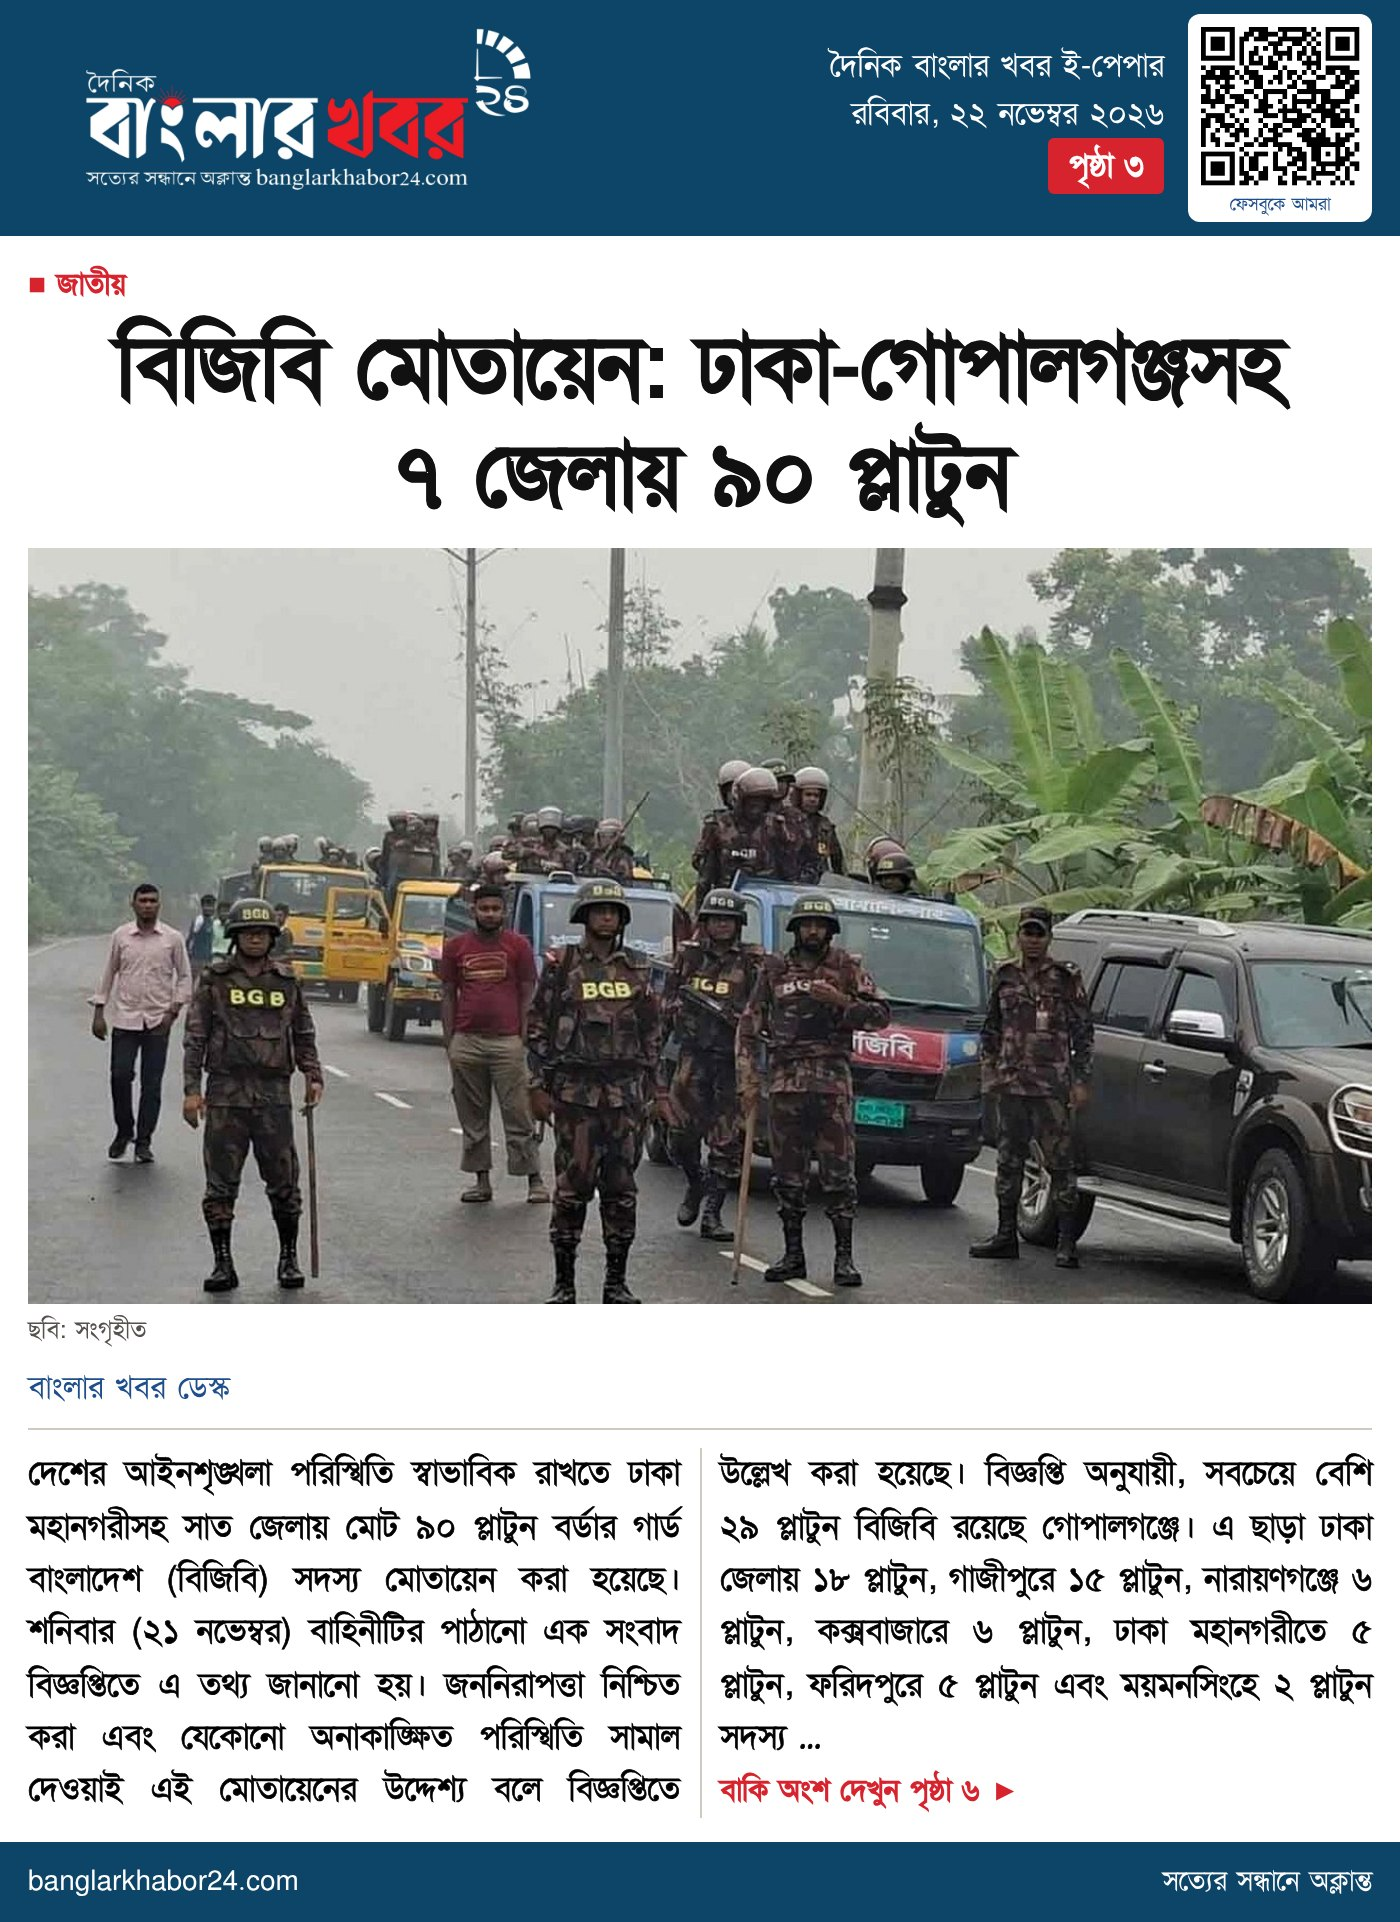
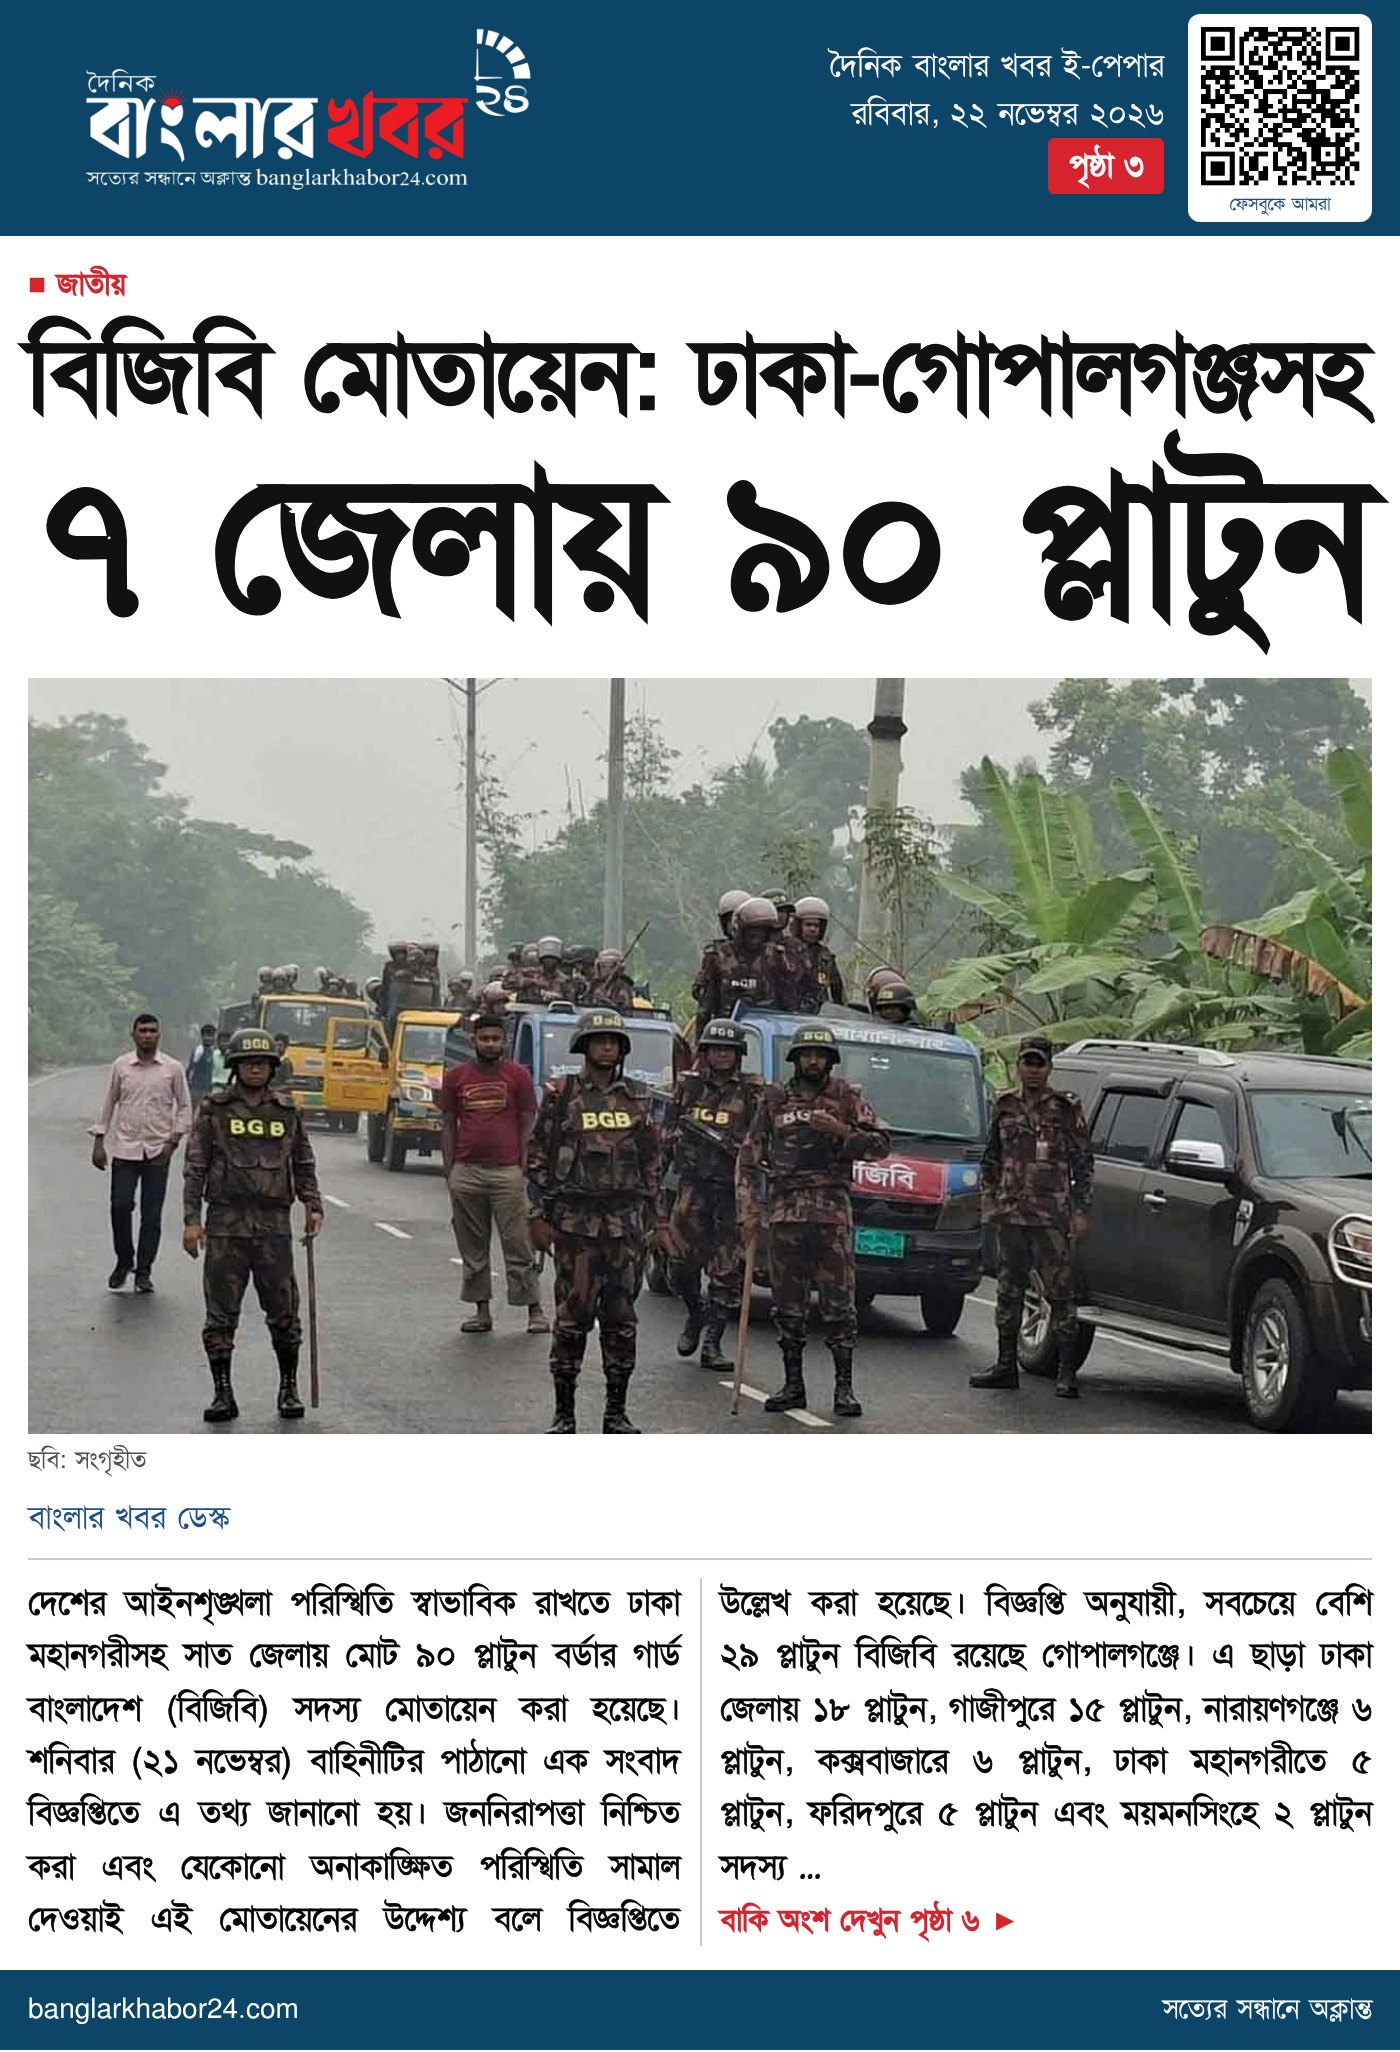
E-paper: story-card headlines fill the full width (one line, or two stretched lines)
Claude-Session: https://claude.ai/code/session_01LCPqBFZ5bY9uVNj6KRS3oq

diff --git a/epaper/build.js b/epaper/build.js
@@ -296,7 +296,19 @@ async function renderCards(pg, n, outDir) {
   for (const d of ds) {
     const sid = d.id.replace(/^c/, ''), name = d.kind === 'f' ? `${TAG}-${sid}.jpg` : `${TAG}-${sid}-${d.kind === 'b' ? 'b' : 'a'}.jpg`;
     fs.writeFileSync(E + '/_c.html', cardHTML(d, n)); await cp.goto('file://' + E + '/_c.html');
-    await cp.evaluate(() => document.fonts.ready); await cp.evaluate(() => window.fitAll()); await cp.waitForTimeout(80);
+    await cp.evaluate(() => document.fonts.ready); await cp.evaluate(() => { // headline edge to edge: short = one full-width line, long = two lines each stretched to full width
+      const h = document.querySelector('#card h2'); if (!h) return;
+      const ws = (h.dataset.t || h.textContent).trim().split(/ +/); h.dataset.t = ws.join(' ');
+      const W = h.clientWidth - 2, m = document.createElement('span');
+      m.style.cssText = 'position:absolute;visibility:hidden;white-space:nowrap;font-family:Lalsalu;font-weight:700;font-size:50px;-webkit-text-stroke:.5px'; document.body.appendChild(m);
+      const wid = t => { m.textContent = t; return m.offsetWidth; };
+      const line = (t, f) => `<span style="display:block;white-space:nowrap;font-size:${f.toFixed(1)}px;line-height:1.18">${t}</span>`;
+      const one = 50 * W / wid(ws.join(' '));
+      if (one >= 46 || ws.length < 2) { h.innerHTML = line(ws.join(' '), Math.min(one, 90)); }
+      else { let b = null; for (let i = 1; i < ws.length; i++) { const a = wid(ws.slice(0, i).join(' ')), c = wid(ws.slice(i).join(' ')), sc = Math.min(a, c) / Math.max(a, c); if (!b || sc > b.sc) b = { i, a, c, sc }; }
+        h.innerHTML = line(ws.slice(0, b.i).join(' '), 50 * W / b.a) + line(ws.slice(b.i).join(' '), 50 * W / b.c); }
+      h.style.textAlign = 'left'; h.style.textAlignLast = 'left';
+      m.remove(); }); await cp.waitForTimeout(80);
     await (await cp.$('#card')).screenshot({ path: `${outDir}/${name}`, type: 'jpeg', quality: 86 });
   }
 }

diff --git a/epaper/daily.py b/epaper/daily.py
@@ -107,7 +107,7 @@ def recards(day):
     auth = {'Authorization': 'Basic ' + base64.b64encode(f'{user}:{pw}'.encode()).decode()}
     src = os.path.join(HERE, 'oneoff', day); new = {}
     for path in sorted(glob.glob(f'{src}/*.jpg')):
-        name = os.path.basename(path); nn = name[:-4] + '-v2.jpg'
+        name = os.path.basename(path); nn = name[:-4] + '-' + os.environ.get('CARD_VER', 'v2') + '.jpg'
         j = req(f'{EP}/wp-json/wp/v2/media', open(path, 'rb').read(), {**auth, 'Content-Type': 'image/jpeg', 'Content-Disposition': f'attachment; filename="{nn}"'}, 'POST')
         new[name] = j['source_url'].rsplit('/', 1)[1]
     tag = 'bk-' + dt.datetime.strptime(day, '%Y-%m-%d').strftime('%d-%m-%Y')
@@ -115,7 +115,7 @@ def recards(day):
     for m in pages:
         alt = m['alt_text']
         if not alt.startswith('BKMAP'): continue
-        for a, b in new.items(): alt = alt.replace(a, b)
+        for a, b in new.items(): alt = re.sub(re.escape(a[:-4]) + r'(-v\d+)?\.jpg', b, alt)
         req(f'{EP}/wp-json/wp/v2/media/{m["id"]}', json.dumps({'alt_text': alt}).encode(), {**auth, 'Content-Type': 'application/json'}, 'POST')
     print('recards', day, len(new), 'cards,', len(pages), 'pages updated')
 
